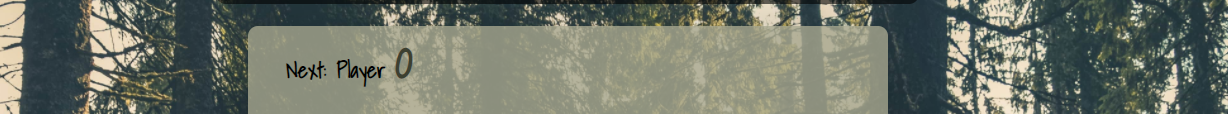
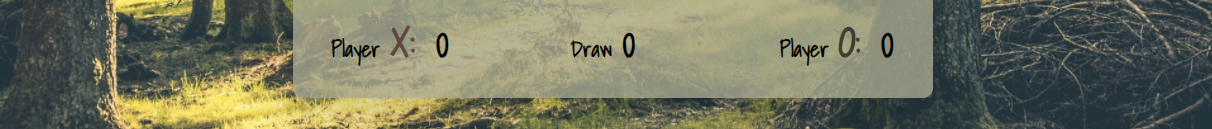
Found bug when scores goes from single digit to double digit. Player O text was       text was      was pushed out of the game board. Solved by changing css to paragraphs in score area.

diff --git a/index.html b/index.html
@@ -44,10 +44,10 @@
          <button class="tile-btn" id="btn-tile-9" aria-label="tile three row three game board"></button>
       </div>
       <div id="score">
-         <p class="scores" id="scoreTextPlayer">Player <span id="scoreTextX">X: </span><span id="scoresPlayerX">0</span>
+         <p class="scores" id="scoreTextPlayerX">Player <span id="scoreTextX">X: </span><span id="scoresPlayerX">0</span>
          </p>
          <p class="scores">Draw <span id="scoresDraw">0</span></p>
-         <p class="scores">Player <span id='scoreTextO'>O: </span><span id="scoresPlayerO">0</span></p>
+         <p class="scores" id="scoreTextPlayerO">Player <span id="scoreTextO">O: </span><span id="scoresPlayerO">0</span></p>
       </div>
    </section>
    <!-- Javascript -->

diff --git a/assets/css/style.css b/assets/css/style.css
@@ -137,12 +137,18 @@ span {
 /* styling div score */
 .scores {
     display: inline-block;
-    margin-right: 12%;
     margin-top: 1%;
 }
 
-#scoreTextPlayer {
-    margin-left: 12%;
+#scoreTextPlayerX {
+    margin-left: 6%;
+    margin-right: 19%;
+    float: left;
+}
+
+#scoreTextPlayerO {
+    float: right;
+    margin-right: 6%;
 }
 
 #scoreTextX {
@@ -205,7 +211,7 @@ span {
     }
 
     #restart-btn {
-        top: 38%;
+        top: 36%;
         right: 23%;
         font-size: 300%;
     }
@@ -221,8 +227,9 @@ span {
     }
 
     /* Styling div score */
-    .scores {
-       margin: 0 0 0 5%;
+
+    #scoreTextPlayerX {
+        margin-right: 11%;
     }
 
 }

diff --git a/README.md b/README.md
@@ -1,6 +1,9 @@
 # Tic Tac Toe
 ## Introduction
 This page contains a version of the classic game Tic Tac Toe. The game is played on a three-by-three board and X plays against O and the winner is the one with three in a row. Here to players can play against each other on the same device, perhaps suiting colleagues playing on the coffee break.
+
+<img src="assets/readme-images/amiresponsive.PNG" width= 90%>
+
 ## UX/Design
 In this section the user experience and design of the site is discussed. Many other games have strong visual effects and colors. This site is designed with the intention to look clean and calming.  For example blinking effects when winnning or draw is displayed in a  beige color. 
 ### User stories 
